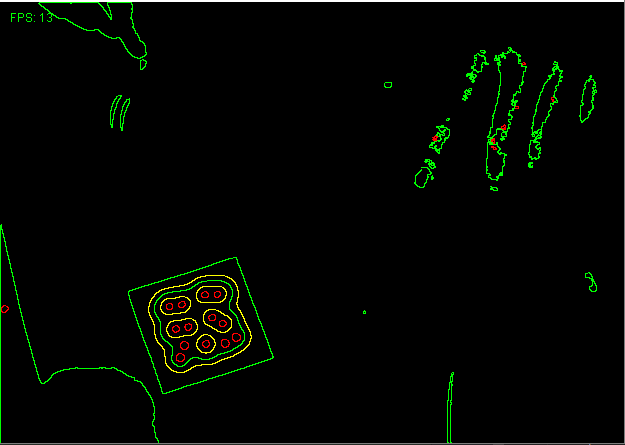
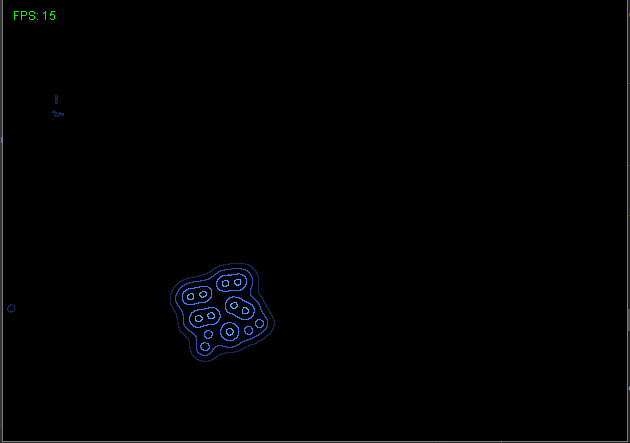
WIP

diff --git a/src/main/java/de/mknblch/vpipe/helper/Launcher.java b/src/main/java/de/mknblch/vpipe/helper/Launcher.java
@@ -17,8 +17,9 @@ public class Launcher {
                 .connectTo(grayscale())
                 .connectTo(gamma(20))
                 .connectTo(contrast(2))
+                .connectTo(invert())
                 .connectTo(contours(128))
-                .connectTo(renderAll(640, 480))
+                .connectTo(renderBoundingBox(640, 480))
                 .connectTo(toBufferedImage());
 
         Viewer.start(pipe);

diff --git a/README.md b/README.md
@@ -32,3 +32,14 @@ it with these functions.
 - Delation / Erosion
 - pixel based enhancement like grayscale, gamma & contrast
 - threshold based contour extraction
+
+## Example
+ 
+- **Green** : outer contour
+- **Yellow** : inner contours
+- **Red** : Leafs
+
+> ![contours](https://mknblch.github.io/videopipe/fiducial.png)
+
+---
+
